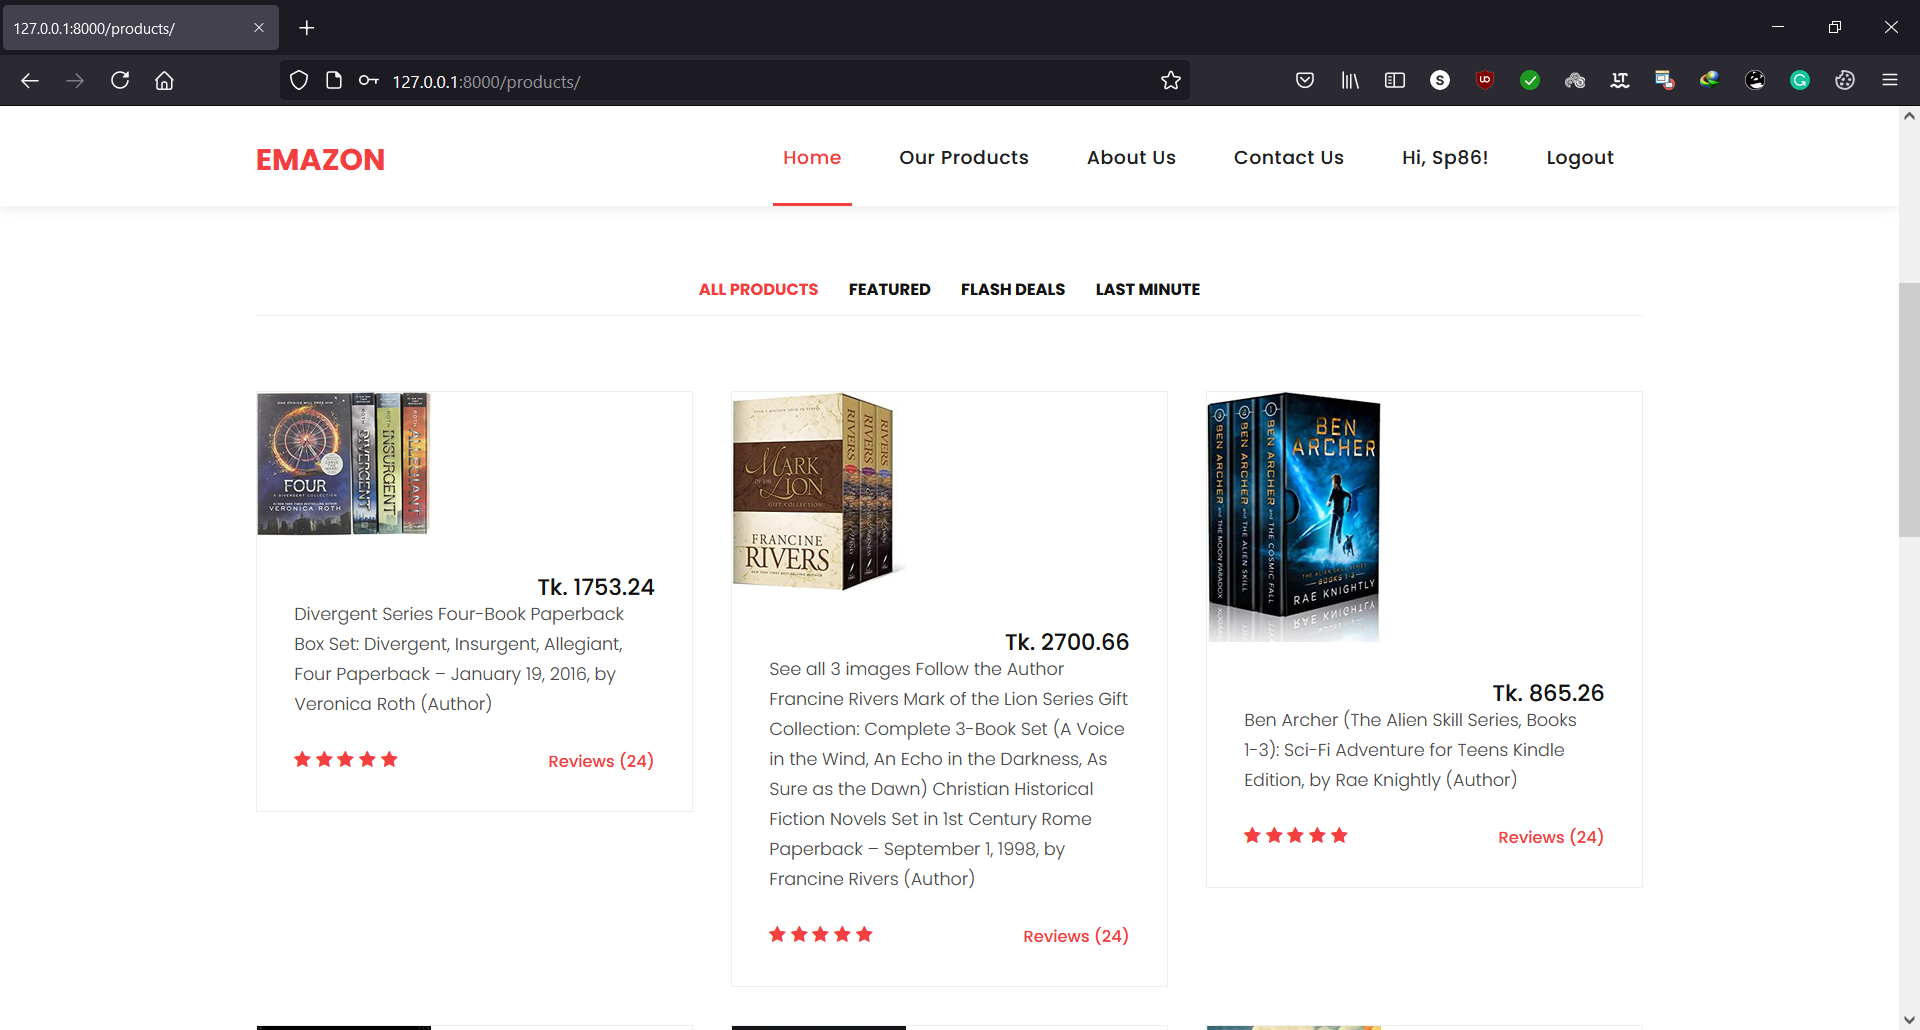
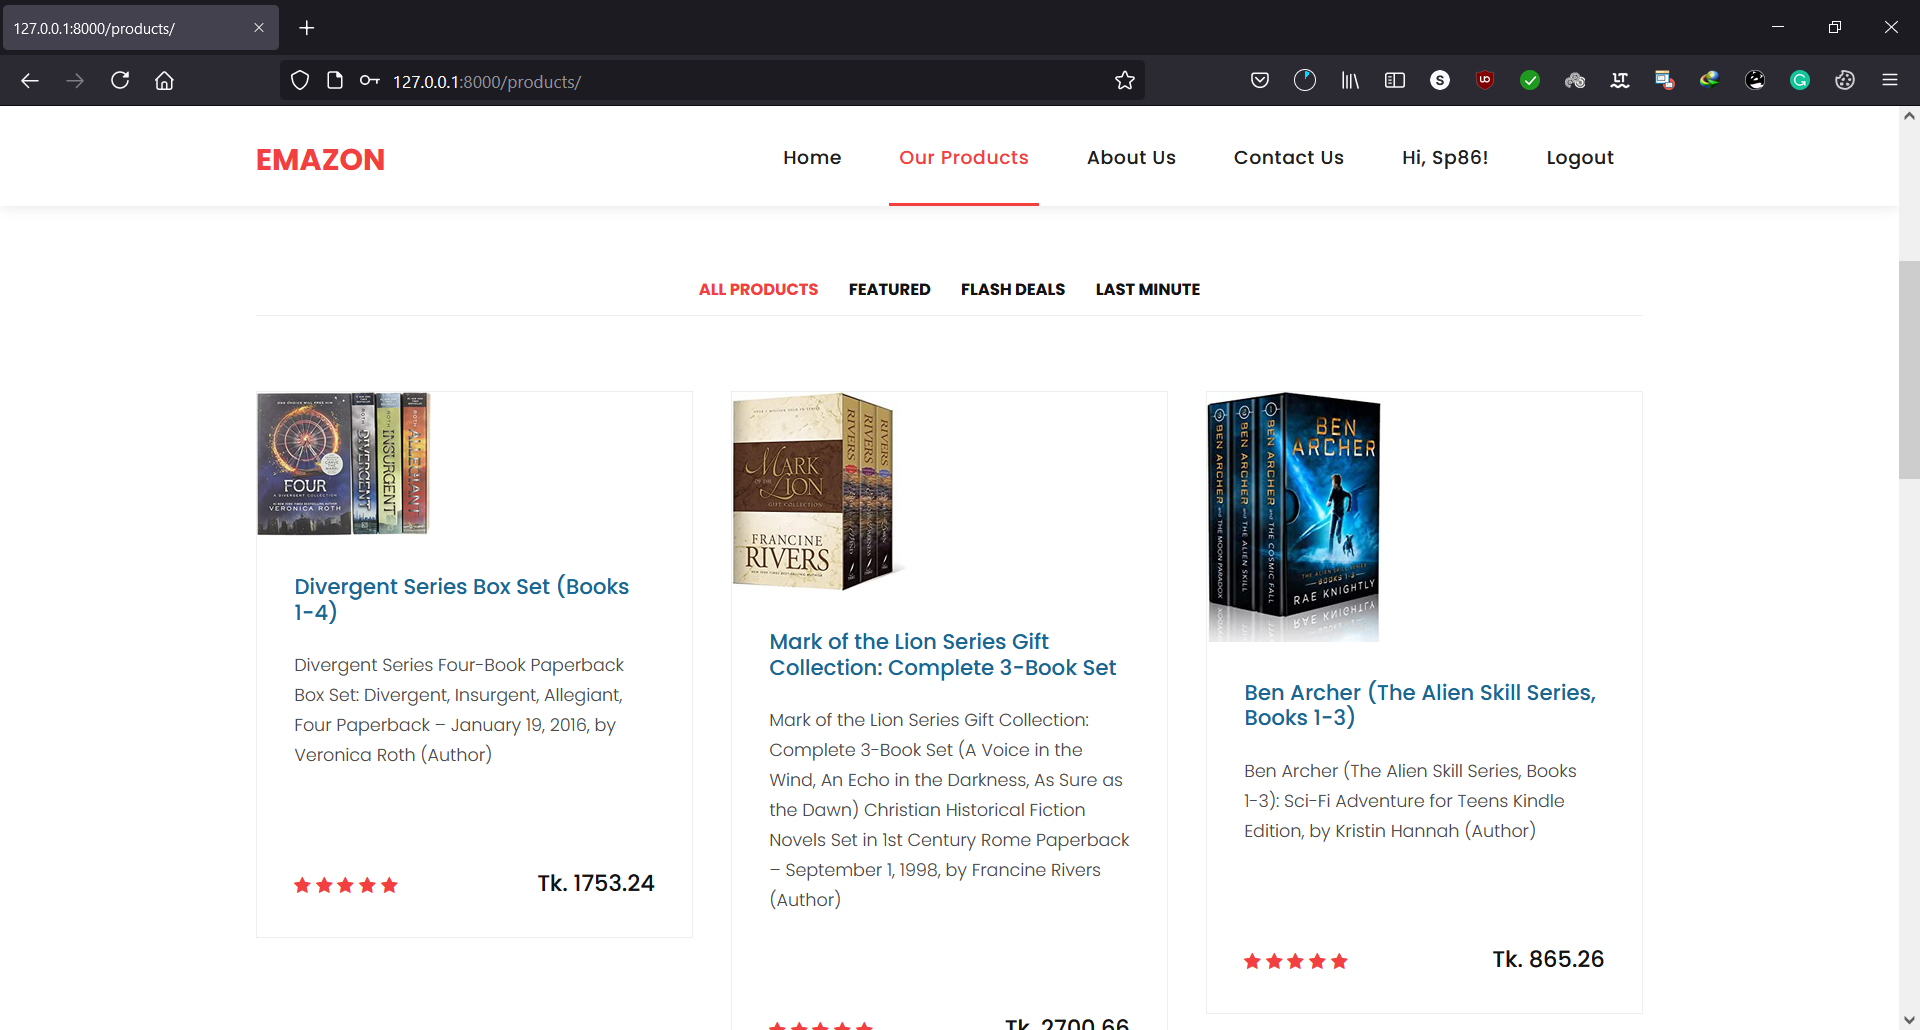
2nd update
Bug fixes

diff --git a/templates/products.html b/templates/products.html
@@ -1,6 +1,5 @@
 {% extends 'base.html' %}
 {% load static %}
-{% static 'media' as BaseImgUrl%}
 {% block link %}
     <style>
         img {
@@ -10,6 +9,34 @@
         }
     </style>
 {% endblock %}
+
+{% block navbar %}
+     <div class="collapse navbar-collapse" id="navbarResponsive">
+            <ul class="navbar-nav ml-auto">
+              <li class="nav-item">
+                <a class="nav-link" href={% url 'mysite:index' %}>Home
+                    <span class="sr-only">(current)</span>
+                </a>
+              </li>
+              <li class="nav-item">
+                <a class="nav-link active" href={% url 'mysite:product-details' %}>Our Products</a>
+              </li>
+              <li class="nav-item">
+                <a class="nav-link" href={% url 'mysite:about' %}>About Us</a>
+              </li>
+              <li class="nav-item">
+                <a class="nav-link" href={% url 'mysite:contact' %}>Contact Us</a>
+              </li>
+                {% if user.is_authenticated %}
+                    <li class="nav-item"><a class="nav-link" href="#">Hi, {{ user.username }}!</a></li>
+                    <li class="nav-item"><a class="nav-link" href={% url "mysite:logout" %}>Logout</a></li>
+                    {% else %}
+                    <li class="nav-item"><a class="nav-link" href={% url "mysite:login" %}>Login</a></li>
+                {% endif %}
+            </ul>
+          </div>
+{% endblock %}
+
 {% block body %}
     <!-- Page Content -->
     <div class="page-heading products-heading header-text">
@@ -40,20 +67,24 @@
             {% for item in products %}
           <div class="col-md-4">
             <div class="product-item">
-              <a href={{ item.url }} target="_blank"><img src={% static ''%}{{ item.img }} alt=""></a>
+                <div>
+                    <a href={{ item.url }} target="_blank"><img src={% static ''%}{{ item.img }} alt=""></a>
               <div class="down-content">
-                <a href={{ item.url }}><h4></h4></a>
-                <h6>Tk. {{ item.price }}</h6>
-                <p>{{ item.name }}</p>
-                <ul class="stars">
+                  <a href={{ item.url }}><h4>{{ item.name }}</h4></a>
+                  <p>{{ item.desc }}</p>
+              </div>
+              <div class="down-content">
+                      <ul class="stars">
                   <li><i class="fa fa-star"></i></li>
                   <li><i class="fa fa-star"></i></li>
                   <li><i class="fa fa-star"></i></li>
                   <li><i class="fa fa-star"></i></li>
                   <li><i class="fa fa-star"></i></li>
                 </ul>
-                <span>Reviews (24)</span>
-              </div>
+
+                    <h6>Tk. {{ item.price }}</h6>
+                  </div>
+                    </div>
             </div>
           </div>
             {% endfor %}

diff --git a/templates/index.html b/templates/index.html
@@ -9,6 +9,32 @@
         }
     </style>
 {% endblock %}
+{% block navbar %}
+     <div class="collapse navbar-collapse" id="navbarResponsive">
+            <ul class="navbar-nav ml-auto">
+              <li class="nav-item active">
+                <a class="nav-link" href={% url 'mysite:index' %}>Home
+                  <span class="sr-only">(current)</span>
+                </a>
+              </li>
+              <li class="nav-item">
+                <a class="nav-link" href={% url 'mysite:product-details' %}>Our Products</a>
+              </li>
+              <li class="nav-item">
+                <a class="nav-link" href={% url 'mysite:about' %}>About Us</a>
+              </li>
+              <li class="nav-item">
+                <a class="nav-link" href={% url 'mysite:contact' %}>Contact Us</a>
+              </li>
+                {% if user.is_authenticated %}
+                    <li class="nav-item"><a class="nav-link" href="#">Hi, {{ user.username }}!</a></li>
+                    <li class="nav-item"><a class="nav-link" href={% url "mysite:logout" %}>Logout</a></li>
+                    {% else %}
+                    <li class="nav-item"><a class="nav-link" href={% url "mysite:login" %}>Login</a></li>
+                {% endif %}
+            </ul>
+          </div>
+{%endblock%}
 {% block body %}
     <!-- Page Content -->
     <!-- Banner Starts Here -->
@@ -48,20 +74,24 @@
             {% for item in products %}
           <div class="col-md-4">
             <div class="product-item">
+                <div>
               <a href={{ item.url }} target="_blank"><img src={% static ''%}{{ item.img }} alt=""></a>
               <div class="down-content">
-                <a href={{ item.url }}><h4></h4></a>
-                <h6>Tk. {{ item.price }}</h6>
-                <p>{{ item.name }}</p>
-                <ul class="stars">
+                  <a href={{ item.url }}><h4>{{ item.name }}</h4></a>
+                  <p>{{ item.desc }}</p>
+              </div>
+                <div class="down-content">
+                      <ul class="stars">
                   <li><i class="fa fa-star"></i></li>
                   <li><i class="fa fa-star"></i></li>
                   <li><i class="fa fa-star"></i></li>
                   <li><i class="fa fa-star"></i></li>
                   <li><i class="fa fa-star"></i></li>
                 </ul>
-                <span>Reviews (24)</span>
-              </div>
+
+                    <h6>Tk. {{ item.price }}</h6>
+                  </div>
+                    </div>
             </div>
           </div>
             {% endfor %}

diff --git a/templates/contact.html b/templates/contact.html
@@ -1,6 +1,32 @@
 {% extends 'base.html' %}
 {% load static %}
 
+{% block navbar %}
+     <div class="collapse navbar-collapse" id="navbarResponsive">
+            <ul class="navbar-nav ml-auto">
+              <li class="nav-item">
+                <a class="nav-link" href={% url 'mysite:index' %}>Home
+                    <span class="sr-only">(current)</span>
+                </a>
+              </li>
+              <li class="nav-item">
+                <a class="nav-link" href={% url 'mysite:product-details' %}>Our Products</a>
+              </li>
+              <li class="nav-item">
+                <a class="nav-link" href={% url 'mysite:about' %}>About Us</a>
+              </li>
+              <li class="nav-item active">
+                <a class="nav-link" href={% url 'mysite:contact' %}>Contact Us</a>
+              </li>
+                {% if user.is_authenticated %}
+                    <li class="nav-item"><a class="nav-link" href="#">Hi, {{ user.username }}!</a></li>
+                    <li class="nav-item"><a class="nav-link" href={% url "mysite:logout" %}>Logout</a></li>
+                    {% else %}
+                    <li class="nav-item"><a class="nav-link" href={% url "mysite:login" %}>Login</a></li>
+                {% endif %}
+            </ul>
+          </div>
+{% endblock %}
 
 {% block body %}
     <!-- Page Content -->
@@ -91,7 +117,7 @@
           </div>
           <div class="col-md-4">
               <div class="contact-head-text">
-                  <h2> Contact Info</h2>
+                  <span style="color: #023147"><h2> Contact Info</h2></span> <br>
                   <div class="form-control-plaintext contact-head-text2">
                       <h6>Address:</h6>
                       <div class="contact-text">

diff --git a/templates/base.html b/templates/base.html
@@ -47,30 +47,8 @@
           <button class="navbar-toggler" type="button" data-toggle="collapse" data-target="#navbarResponsive" aria-controls="navbarResponsive" aria-expanded="false" aria-label="Toggle navigation">
             <span class="navbar-toggler-icon"></span>
           </button>
-          <div class="collapse navbar-collapse" id="navbarResponsive">
-            <ul class="navbar-nav ml-auto">
-              <li class="nav-item active">
-                <a class="nav-link" href={% url 'mysite:index' %}>Home
-                  <span class="sr-only">(current)</span>
-                </a>
-              </li>
-              <li class="nav-item">
-                <a class="nav-link" href={% url 'mysite:product-details' %}>Our Products</a>
-              </li>
-              <li class="nav-item">
-                <a class="nav-link" href={% url 'mysite:about' %}>About Us</a>
-              </li>
-              <li class="nav-item">
-                <a class="nav-link" href={% url 'mysite:contact' %}>Contact Us</a>
-              </li>
-                {% if user.is_authenticated %}
-                    <li class="nav-item"><a class="nav-link" href="#">Hi, {{ user.username }}!</a></li>
-                    <li class="nav-item"><a class="nav-link" href={% url "mysite:logout" %}>Logout</a></li>
-                    {% else %}
-                    <li class="nav-item"><a class="nav-link" href={% url "mysite:login" %}>Login</a></li>
-                {% endif %}
-            </ul>
-          </div>
+         {% block navbar %}
+         {% endblock %}
         </div>
       </nav>
     </header>

diff --git a/templates/login.html b/templates/login.html
@@ -12,6 +12,32 @@
 </script>
 <!-- //animation-effect -->
 {% endblock %}
+{% block navbar %}
+     <div class="collapse navbar-collapse" id="navbarResponsive">
+            <ul class="navbar-nav ml-auto">
+              <li class="nav-item">
+                <a class="nav-link" href={% url 'mysite:index' %}>Home
+                    <span class="sr-only">(current)</span>
+                </a>
+              </li>
+              <li class="nav-item">
+                <a class="nav-link" href={% url 'mysite:product-details' %}>Our Products</a>
+              </li>
+              <li class="nav-item">
+                <a class="nav-link" href={% url 'mysite:about' %}>About Us</a>
+              </li>
+              <li class="nav-item">
+                <a class="nav-link" href={% url 'mysite:contact' %}>Contact Us</a>
+              </li>
+                {% if user.is_authenticated %}
+                    <li class="nav-item"><a class="nav-link" href="#">Hi, {{ user.username }}!</a></li>
+                    <li class="nav-item"><a class="nav-link" href={% url "mysite:logout" %}>Logout</a></li>
+                    {% else %}
+                    <li class="nav-item active"><a class="nav-link" href={% url "mysite:login" %}>Login</a></li>
+                {% endif %}
+            </ul>
+          </div>
+{% endblock %}
 {% block body %}
      <!-- Page Content -->
     <div class="page-heading contact-heading header-text" style="height: 5%">

diff --git a/templates/signup.html b/templates/signup.html
@@ -12,6 +12,34 @@
 </script>
 <!-- //animation-effect -->
 {% endblock %}
+
+{% block navbar %}
+     <div class="collapse navbar-collapse" id="navbarResponsive">
+            <ul class="navbar-nav ml-auto">
+              <li class="nav-item">
+                <a class="nav-link" href={% url 'mysite:index' %}>Home
+                    <span class="sr-only">(current)</span>
+                </a>
+              </li>
+              <li class="nav-item">
+                <a class="nav-link" href={% url 'mysite:product-details' %}>Our Products</a>
+              </li>
+              <li class="nav-item">
+                <a class="nav-link" href={% url 'mysite:about' %}>About Us</a>
+              </li>
+              <li class="nav-item">
+                <a class="nav-link" href={% url 'mysite:contact' %}>Contact Us</a>
+              </li>
+                {% if user.is_authenticated %}
+                    <li class="nav-item"><a class="nav-link" href="#">Hi, {{ user.username }}!</a></li>
+                    <li class="nav-item"><a class="nav-link" href={% url "mysite:logout" %}>Logout</a></li>
+                    {% else %}
+                    <li class="nav-item"><a class="nav-link" href={% url "mysite:login" %}>Login</a></li>
+                {% endif %}
+            </ul>
+          </div>
+{% endblock %}
+
 {% block body %}
      <!-- Page Content -->
 {#    <div class="signup-page-heading contact-heading header-text">#}

diff --git a/templates/about.html b/templates/about.html
@@ -6,6 +6,33 @@
     <title>About Emazon </title>
 {% endblock %}
 
+{% block navbar %}
+     <div class="collapse navbar-collapse" id="navbarResponsive">
+            <ul class="navbar-nav ml-auto">
+              <li class="nav-item">
+                <a class="nav-link" href={% url 'mysite:index' %}>Home
+                    <span class="sr-only">(current)</span>
+                </a>
+              </li>
+              <li class="nav-item">
+                <a class="nav-link" href={% url 'mysite:product-details' %}>Our Products</a>
+              </li>
+              <li class="nav-item">
+                <a class="nav-link active" href={% url 'mysite:about' %}>About Us</a>
+              </li>
+              <li class="nav-item">
+                <a class="nav-link" href={% url 'mysite:contact' %}>Contact Us</a>
+              </li>
+                {% if user.is_authenticated %}
+                    <li class="nav-item"><a class="nav-link" href="#">Hi, {{ user.username }}!</a></li>
+                    <li class="nav-item"><a class="nav-link" href={% url "mysite:logout" %}>Logout</a></li>
+                    {% else %}
+                    <li class="nav-item"><a class="nav-link" href={% url "mysite:login" %}>Login</a></li>
+                {% endif %}
+            </ul>
+          </div>
+{% endblock %}
+
 {% block body %}
 
     <!-- Page Content -->

diff --git a/mysite/migrations/0001_initial.py b/mysite/migrations/0001_initial.py
@@ -1,4 +1,4 @@
-# Generated by Django 3.2.4 on 2021-06-28 14:31
+# Generated by Django 3.2.4 on 2021-06-29 14:27
 
 from django.db import migrations, models
 
@@ -15,9 +15,11 @@ class Migration(migrations.Migration):
             name='Product',
             fields=[
                 ('id', models.BigAutoField(auto_created=True, primary_key=True, serialize=False, verbose_name='ID')),
-                ('img', models.ImageField(max_length=50, upload_to='img/course_list')),
-                ('price', models.PositiveIntegerField()),
-                ('name', models.CharField(max_length=30)),
+                ('img', models.ImageField(default='assets/images/product_03.jpg', upload_to='img/course_list')),
+                ('price', models.DecimalField(decimal_places=2, max_digits=10)),
+                ('name', models.CharField(default='', max_length=100)),
+                ('desc', models.TextField(blank=True, max_length=1000, null=True)),
+                ('url', models.CharField(max_length=200)),
             ],
         ),
     ]

diff --git a/mysite/models.py b/mysite/models.py
@@ -3,7 +3,8 @@ from django.db import models
 
 # Create your models here.
 class Product(models.Model):
-    img = models.ImageField(upload_to='img/course_list', blank=True, null=True, default='assets/images/product_03.jpg')
+    img = models.ImageField(upload_to='img/course_list', default='assets/images/product_03.jpg')
     price = models.DecimalField(max_digits=10, decimal_places=2)
-    name = models.CharField(max_length=300)
-    url = models.CharField(max_length=200, blank=True, null=True)
+    name = models.CharField(max_length=100, default="")
+    desc = models.TextField(max_length=1000, blank=True, null=True)
+    url = models.CharField(max_length=200)

diff --git a/mysite/forms.py b/mysite/forms.py
@@ -8,7 +8,7 @@ from .models import *
 class Product(forms.ModelForm):
     class Meta:
         model = Product
-        fields = ["img", "name", "price", "url"]
+        fields = ["img", "name", "price", "desc", "url"]
 
 
 #
